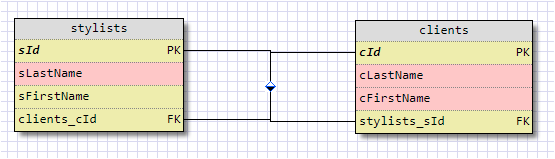
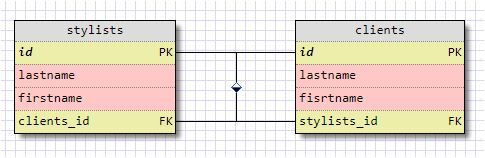
Push after modify of main cs and test cs files.

diff --git a/HairSalon/Models/HairSalon.cs b/HairSalon/Models/HairSalon.cs
@@ -3,41 +3,41 @@ using MySql.Data.MySqlClient;
 using System.Collections.Generic;
 using System.Text.RegularExpressions;
 
-namespace Salon.Models
+namespace HairSalon.Models
 {
   public class Stylist
   {
     //stylist info Eq
-    private string sLastName {get; private set;}
-    private string sFirstName {get; private set;}
-    private int sId {get; private set;}
+    public string LastName {get; private set;}
+    public string FirstName {get; private set;}
+    public int Id {get; private set;}
 
 
-    public Stylist(string sLastName, string sFirstName, int sId = 0)
+    public Stylist(string lastname, string firstname, int id = 0)
     {
-        sLastName = slastname;
-        sFirstName = sfirstname;
-        sId = sid;
+        LastName = lastname;
+        FirstName = firstname;
+        Id = id;
     }
 
-    public override bool Equals(System.Object OtherStylist)
+    public override bool Equals(System.Object otherStylist)
     {
-      if (!(OtherStylist is Stylist))
+      if (!(otherStylist is Stylist))
       {
         return false;
       }
       else
       {
-        Stylist newSalon = (Stylist) otherStylist;
-        bool idEquality = (this.GetSId == newStylist.GetSId);
-        bool slastnameEquality = (this.GetsLastName == newStylist.GetsLastName);
-        bool sfirstnameEquality = (this.GetsFirstName == newStylist.GetsFirstName;
-        return (sidEquality && slastnameEquality && sfirstnameEquality);
+        Stylist newStylist = (Stylist) otherStylist;
+        bool idEquality = (this.Id == newStylist.Id);
+        bool lastnameEquality = (this.LastName == newStylist.LastName);
+        bool firstnameEquality = (this.FirstName == newStylist.FirstName);
+        return (idEquality && lastnameEquality && firstnameEquality);
       }
     }
     public override int GetHashCode()
     {
-        return this.sId.GetHashCode();
+        return this.Id.GetHashCode();
     }
 
 //ADD:  ClientID here
@@ -48,20 +48,21 @@ namespace Salon.Models
         conn.Open();
 
         var cmd = conn.CreateCommand() as MySqlCommand;
-        cmd.CommandText = @"INSERT INTO stylists (slastname, sfirstname) VALUES (@slastname, @sfirstname);";
+        cmd.CommandText = @"INSERT INTO stylists (lastname, firstname) VALUES (@lastname, @firstname);";
 
-        MySqlParameter slastname = new MySqlParameter();
-        slastname.ParameterName = "@slastname";
-        slastname.Value = this.sLastName;
-        cmd.Parameters.Add(slastname);
+        MySqlParameter lastname = new MySqlParameter();
+        lastname.ParameterName = "@lastname";
+        lastname.Value = this.LastName;
+        cmd.Parameters.Add(lastname);
 
-        MySqlParameter sfirstname = new MySqlParameter();
-        sfirstname.ParameterName = "@sfirstname";
-        sfirstname.Value = sFirstName;
-        cmd.Parameters.Add(sfirstname);
+        MySqlParameter firstname = new MySqlParameter();
+        firstname.ParameterName = "@firstname";
+        firstname.Value = FirstName;
+        cmd.Parameters.Add(firstname);
 
         cmd.ExecuteNonQuery();
-        sId = (int) cmd.LastInsertedsId;
+        Id = (int) cmd.LastInsertedId;
+
         conn.Close();
         if (conn != null)
         {
@@ -163,28 +164,28 @@ namespace Salon.Models
       return errorStylist;
     }
 
-    public void Update(string slastname="", string sfirstname="")
+    public void Update(string lastname="", string firstname="")
     {
-      if(!String.IsNullOrEmpty(slastname))
-      {this.sLastName = slastname;}
-      if(!String.IsNullOrEmpty(sfirstname))
-      {this.sFirstName = sfirstname;}
+      if(!String.IsNullOrEmpty(lastname))
+      {this.LastName = lastname;}
+      if(!String.IsNullOrEmpty(firstname))
+      {this.FirstName = firstname;}
 
       MySqlConnection conn = DB.Connection();
       conn.Open();
 
       MySqlCommand cmd = conn.CreateCommand();
-      cmd.CommandText = @"SET @slastname, @sfirstname FROM stylists WHERE id = @thisId;";
+      cmd.CommandText = @"SET @lastname, @firstname FROM stylists WHERE id = @thisId;";
 
-      MySqlParameter thisLastName = new MySqlParameter();
-      thisLastName.ParameterName = "@slastname";
-      thisLastName.Value = this.sLastName;
-      cmd.Parameters.Add(thisLastName);
+      MySqlParameter thislastname = new MySqlParameter();
+      thislastname.ParameterName = "@lastname";
+      thislastname.Value = this.LastName;
+      cmd.Parameters.Add(thislastname);
 
-      MySqlParameter thisFirstName = new MySqlParameter();
-      thisFirstName.ParameterName = "@sfirstname";
-      thisFirstName.Value = this.sFirstName;
-      cmd.Parameters.Add(thisFirstName);
+      MySqlParameter thisfirstname = new MySqlParameter();
+      thisfirstname.ParameterName = "@firstname";
+      thisfirstname.Value = this.FirstName;
+      cmd.Parameters.Add(thisfirstname);
 
         conn.Close();
         if (conn != null)

diff --git a/hairsalon.tests/Models.Tests/HairSalon.Tests.cs b/hairsalon.tests/Models.Tests/HairSalon.Tests.cs
@@ -15,15 +15,15 @@ namespace HairSalon.Models.Tests
         }
         public void Dispose()
         {
-        //   Class.ClearAll
+          Stylist.ClearAll();
         }
         [TestMethod]
         public void Save_SaveStylist_0()
         {
-            //Arrange
-            Stylist testStylist = new Stylist("test-lastname","test-firstname");
-            //Act
-            testStylist.Save();
+            List<Stylist> testStylist = new List<Stylist>();
+            Stylist stylistA = new Stylist("test-lastname","test-firstname");
+            testStylist.Add(stylistA);
+            stylistA.Save();
 
             Assert.AreEqual(true,Stylist.GetAll().Count==1);
         }
@@ -44,8 +44,61 @@ namespace HairSalon.Models.Tests
             Stylist.ClearAll();
             List<Stylist> resultList = Stylist.GetAll();
 
-            Assert.AreEqual(true,resultList.Count==0);                
+            Assert.AreEqual(true,resultList.Count==0);
         }
+        [TestMethod]
+        public void GetAll_GetAllSylistsFromDatabase_0()
+        {
+            List<Stylist> testList = new List<Stylist>();
+            Stylist stylistA = new Stylist("Farron", "Alan");
+            Stylist stylistB = new Stylist("Murphy", "Brenda");
+            Stylist stylistC = new Stylist("Zamera", "Charlie");
+            testList.Add(stylistA);
+            testList.Add(stylistB);
+            testList.Add(stylistC);
+            stylistA.Save();
+            stylistB.Save();
+            stylistC.Save();
 
+            List<Stylist> resultList = Stylist.GetAll();
+
+            Assert.AreEqual(true,resultList.Count==3);
+        }
+        [TestMethod]
+        public void Find_FindAStylistInDatabase_0()
+        {
+            Stylist testStylist = new Stylist("Richardson", "Bethany");
+            testStylist.Save();
+
+            Stylist foundStylist = Stylist.Find(1);
+
+            Assert.AreEqual(testStylist, foundStylist);
+        }
+        [TestMethod]
+        public void Delete_DeleteStylistFromDatabase_0()
+        {
+            Stylist testStylist = new Stylist("Richardson", "Bethany");
+            testStylist.Save();
+            int newID = testStylist.Id;
+            int numOfStylists = Stylist.GetAll().Count;
+            Stylist.Delete(newID);
+
+            Assert.AreEqual(true, Stylist.GetAll().Count == numOfStylists);
+        }
+        [TestMethod]
+        public void Update_UpdateAStylistInDatabase_0()
+        {
+            Stylist testStylist = new Stylist("Richardson", "Bethany");
+            testStylist.Save();
+
+            string newLastName = "Coruso";
+            string newFirstName = "Eliza";
+
+            Stylist newStylist = new Stylist(newLastName, newFirstName);
+            newStylist.Update(newLastName, newFirstName);
+
+            Assert.AreNotEqual(testStylist.LastName, newStylist.LastName);
+            Assert.AreNotEqual(testStylist.FirstName, newStylist.FirstName);
+        }
     }
   }

diff --git a/HairSalon/Startup.cs b/HairSalon/Startup.cs
@@ -3,11 +3,11 @@ using Microsoft.AspNetCore.Hosting;
 using Microsoft.Extensions.Configuration;
 using Microsoft.Extensions.DependencyInjection;
 
-namespace Salon
+namespace HairSalon
 {
   public static class DBConfiguration
     {
-      public static string ConnectionString = "server=localhost;user id=root;password=root;port=8889;database=_database;";
+      public static string ConnectionString = "server=localhost;user id=root;password=root;port=3306;database=_database;";
     }
   public class Startup
   {

diff --git a/HairSalon/Controllers/HomeController.cs b/HairSalon/Controllers/HomeController.cs
@@ -1,9 +1,9 @@
 using Microsoft.AspNetCore.Mvc;
 using System;
 using System.Collections.Generic;
-using Salon.Models;
+using HairSalon.Models;
 
-namespace Salon.Controllers
+namespace HairSalon.Controllers
 {
     public class HomeController : Controller
     {

diff --git a/HairSalon/Models/Database.cs b/HairSalon/Models/Database.cs
@@ -1,8 +1,8 @@
 using System;
 using MySql.Data.MySqlClient;
-using Salon;
+using HairSalon;
 
-namespace Salon.Models
+namespace HairSalon.Models
 {
   public class DB
   {

diff --git a/HairSalon/Program.cs b/HairSalon/Program.cs
@@ -1,7 +1,7 @@
 using System.IO;
 using Microsoft.AspNetCore.Hosting;
 
-namespace Salon
+namespace HairSalon
 {
   public class Program
   {

diff --git a/README.md b/README.md
@@ -1,6 +1,6 @@
-# [MVC](https://www.tutorialspoint.com/mvc_framework/mvc_framework_introduction.htm)-Salon
+# [MVC](https://www.tutorialspoint.com/mvc_framework/mvc_framework_introduction.htm)-HairSalon
 
-#### **[WARNING]** Some aspects of this README.md file are only viewable when rendering in your editor-of-choice and may not display properly if viewed via GitHub.
+## **`[WARNING]:`** **`Some aspects of this README.md file are only viewable when rendering this Markdown file in your editor-of-choice and may not display properly if viewed via GitHub.`**
 
 #### This is code for Project#3 of the C Sharp Course
 
@@ -14,7 +14,7 @@ This website is our third project in the C# course and incorporates MVC and SQL 
 
 | Preparation |
 |:---|
-|• You may view this project at: https://falconswoosh.github.io/Wk3C--IP-MVC-Salon<br/>• This project may be cloned from:  https://github.com/falconswoosh/Wk3C--IP-MVC-Salon.git<br/>• Install .NET SDK, .NET Runtime, Git, [MAMP](https://techterms.com/definition/mamp), and Mono (refer to links in **Technologies Used** section below). Once MAMP (which installs [mySQL](https://docs.oracle.com/database/121/SQLRF/toc.htm)) is installed, the port configured, you have clicked on [Start Servers](https://img.webnots.com/2014/10/MAMP-Apache-Server-Not-Started-with-Mac-Yosemite.png), and the servers show they [are running](https://img.webnots.com/2014/10/MAMP-Apache-Server-Not-Started-with-Mac-Yosemite.png), continue with the steps below for configuration and finally to interact with this project...|
+|• You may view this project at: https://falconswoosh.github.io/Wk3C--IP-MVC-Salon<br/>• This project may be cloned or downloaded as a .ZIP file from:  https://github.com/falconswoosh/Wk3C--IP-MVC-Salon.git<br/>• Install .NET SDK, .NET Runtime, Git, [MAMP](https://techterms.com/definition/mamp), and Mono (refer to links in **Technologies Used** section below). Once MAMP (which installs [mySQL](https://docs.oracle.com/database/121/SQLRF/toc.htm)) is installed, the port configured, you have clicked on [Start Servers](https://img.webnots.com/2014/10/MAMP-Apache-Server-Not-Started-with-Mac-Yosemite.png), and the servers show they [are running](https://img.webnots.com/2014/10/MAMP-Apache-Server-Not-Started-with-Mac-Yosemite.png), continue with the steps below for configuration and finally to interact with this project...|
 
 | Database schema for this project: |
 |:---:|
@@ -38,11 +38,11 @@ This website is our third project in the C# course and incorporates MVC and SQL 
     <td colspan="2" style="text-align:center;" bgcolor="red"><font color="#000" size="3.5">**Choose One Column Below**<br/></font><font color="#fff" size="2">(__certain__ commands are the same for both columns)</font></td>
   </tr>
   <tr>
-  <td colspan="2" style="text-align:center;" bgcolor=";"><font style="color: #f2cf4a; font-family: Babas; font-size: 1em;">NOTE: </font>Unless you have done otherwise, the cloned project compressed as a .Zip file from GitHub would be uncompressed into the folder "Wk3-C--IP-Salon". <font style="color: #f2cf4a; font-family: Babas; font-size: 1em;">Issue the following commands in sequence within your Terminal:</bont></td>
+  <td colspan="2" style="text-align:center;" bgcolor=";"><font style="color: #f2cf4a; font-family: Babas; font-size: 1em;">NOTE: </font>Unless you have done otherwise, this downloade project compressed as a .Zip file from GitHub would be uncompressed into the folder "Wk3-C--IP-Salon". <font style="color: #f2cf4a; font-family: Babas; font-size: 1em;"><br/>Issue the following commands in sequence within your Terminal:</bont></td>
   </tr>  
   <tr>
   <td bgcolor="#3B9FF;" style="text-align:center;"><font color=#ffff00;" font-family: Babas; font-size: 4em;">`Interact with the UI Database` <br/> (default usage)</font></td>
-  <td bgcolor="#3B9FF;" style="text-align:center;"><font color=#ffff00;" font-family: Babas; font-size: 4em;">`Interact with the Test Database` <br/> (if you are modifying or testing the backend) </font></td>
+  <td bgcolor="#3B9FF;" style="text-align:center;"><font color=#ffff00;" font-family: Babas; font-size: 4em;">`Interact with the Test Database` </font><br/> <font color=#ffff00;" font-family: Babas; font-size: 4em;">•••If you are modifying or testing the backend, then issue commands in both columns starting with the UI first. However, for the UI, skip "dotnet run" and "...//localhost..")</font></td>
   </tr>
   </tr>
   <tr>  
@@ -119,7 +119,7 @@ Alan Falcon email: [falconswoosh@gmail.com](falconswoosh@gmail.com)
 | MAMP (contains Apache server, [MySQL](http://www.sqlcommands.net/), [phpMyAdmin](https://www.siteground.com/tutorials/phpmyadmin/database-management/), etc.)<td colspan=2> https://en.wikipedia.org/wiki/Markdown<br>• Select either Windows or MAC<br/>• Once installed, click on [Preferences](https://img.webnots.com/2014/11/MAMP-Preferences-Settings.png) &#124; click on [Set Web & MySQL ports to 80 & 3306](https://www.pcdailytips.com/wp-content/uploads/2017/01/ports-setweb-mysql.png). &#124; Click on [Start Servers](https://img.webnots.com/2014/10/MAMP-Apache-Server-Not-Started-with-Mac-Yosemite.png)...when the servers are up, the "button" toggles to "Stop Servers"<br/>&nbsp;&nbsp;**WARNING:**&nbsp; Otherwise, for the port - you may choose to identify certain ports yourself based on your system configuration (e.g., in class it may be ports 8888/8889). If doing this however, every line in the code referring to port `3306` will need to be modified with the port you specify for mySQL. Stated another way, the code in this project uses port 80 for the Apache server and port 3306 for the mySQL server.  </td>|
 | Markdown<td colspan=2> https://www.mamp.info/en/downloads/  </td>|
 | Mono (Note: contains CSharp. Launch by typing [csharp](https://itech.folderit.net/wp-content/uploads/2014/06/csharp.png) within the Mono prompt. csharp is included and is a [REPL](http://www.mono-project.com/docs/tools+libraries/tools/repl/) for [testing C# commands](http://lh4.ggpht.com/__Mw4iY-4nuY/TJ8yMvRqQ9I/AAAAAAAAA7I/8_Jy51UGFkI/image_thumb%5B48%5D.png?imgmax=800)) |http://www.mono-project.com/download/#download-win | http://www.mono-project.com/download/#download-mac |
-| SQL Designer<td colspan=2> https://ondras.zarovi.cz/old/sqlold/demo/  </td>|
+| SQL Designer<td colspan=2> (Try one of these in this order. I found the second one worked in my Windows 10 configuration via Google Chrome.) http://ondras.zarovi.cz/sql/demo/<br/>https://ondras.zarovi.cz/old/sqlold/demo/  </td>|
 
 
 
